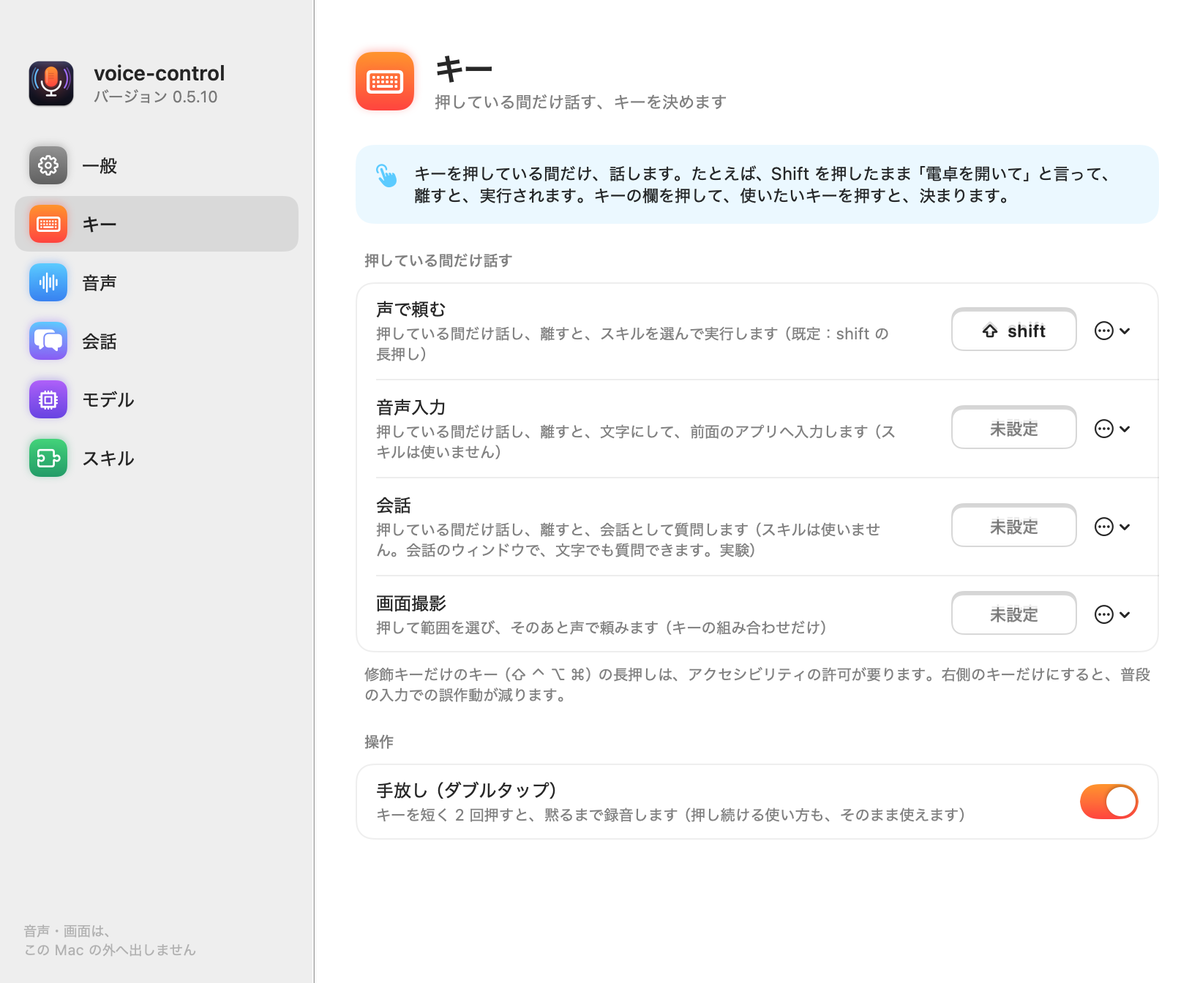
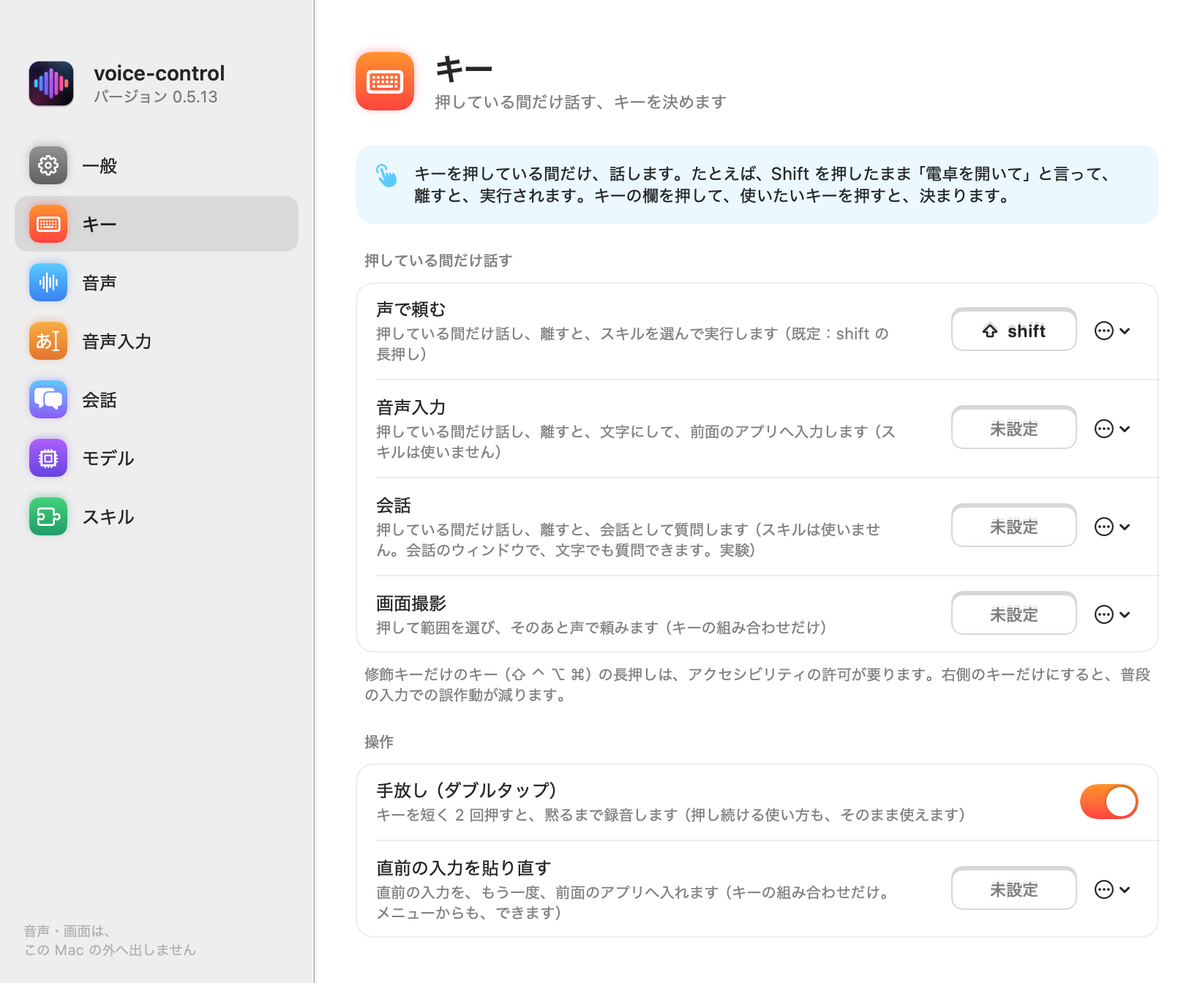
文書：README・製品ページに、v0.5.11 以降の更新を反映（音声入力のページ・会話の順番待ち・止める・履歴の例外ほか）、画像の撮り直し

diff --git a/site/index.html b/site/index.html
@@ -152,9 +152,11 @@
           <li class="rule spotlight reveal"><svg aria-hidden="true"><use href="#i-hand"/></svg><div><h3>キーで話す、または文字で聞く</h3><p>会話のキー（設定 &gt; キー）を押している間だけ話すか、メニューバーの「会話を開く」で、ウィンドウに文字で入れます。読み上げは、Esc やボタンで止められます。</p></div></li>
           <li class="rule spotlight reveal" style="--d:60ms"><svg aria-hidden="true"><use href="#i-puzzle"/></svg><div><h3>道具を、段階で開ける</h3><p><b>なし</b>（初期設定）・<b>Web</b>（検索・ページの取得）・<b>＋読む</b>（作業フォルダのファイル）・<b>すべて</b>（書き込み・コマンド）。Apple のモデルの「すべて」は、<strong>上書きと、読むだけでないコマンドを、毎回確認</strong>します。</p></div></li>
           <li class="rule spotlight reveal" style="--d:120ms"><svg aria-hidden="true"><use href="#i-eye"/></svg><div><h3>画面を撮って、見せる</h3><p>「画面を撮る」で範囲を選ぶと、画像について聞けます。Apple のモデルは、<strong>Mac の中で</strong>読みます。外のエージェントへは、<strong>送るたびに、画像と送り先を見せて、確認</strong>します。</p></div></li>
+          <li class="rule spotlight reveal" style="--d:150ms"><svg aria-hidden="true"><use href="#i-hand"/></svg><div><h3>考えている間に、続けて質問できる</h3><p>文字でも声でも、続けて送ると<strong>順番待ち</strong>に入り、いまの答えが終わってから送られます（待っている文字は、まとめて 1 回の質問に）。各件に<b>今すぐ送る</b>（いまの質問を止めて、先に）と<b>取り下げ</b>があり、入力欄が空のとき、送信ボタンは<b>停止</b>になります。</p></div></li>
+          <li class="rule spotlight reveal" style="--d:165ms"><svg aria-hidden="true"><use href="#i-eye"/></svg><div><h3>止める・戻る・複数行 <small>次の版</small></h3><p>会話のキーで「止めて」「ストップ」「stop」と話すと、読み上げと考えている質問を止めます（発話の全体が一致したときだけ。「音楽を止めて」は、普通の質問です）。上へ戻って読んでいるときは「最新へ」のボタン。入力欄は、⇧Return で改行できます。</p></div></li>
           <li class="rule spotlight reveal" style="--d:180ms"><svg aria-hidden="true"><use href="#i-chip"/></svg><div><h3>答える側を選べる</h3><p>初期設定は、Mac の中の Apple のモデル。<code>claude</code>・<code>codex</code>・<code>grok</code>・<code>agy</code>・<code>opencode</code>・<code>pi</code> のうち、<strong>Mac に入っているものだけ</strong>が選べます。選んだものがなくなったら、Apple のモデルで答えます。外のエージェントを選ぶと、<strong>発話がその提供元へ送られます</strong>（ヘッダーに印が出ます）。</p></div></li>
         </ul>
-        <p class="note-small reveal">会話の記録は、メモリだけです（ファイルにもログにも残しません）。「会話を終わって」・「新しい会話」・5 分間話さない・アプリの終了で消えます。</p>
+        <p class="note-small reveal">会話の記録は、メモリだけです（ファイルにもログにも残しません）。「会話を終わって」・「新しい会話」・5 分間話さない・アプリの終了で消えます。答えが少しずつ届くエージェント（opencode など）では、届いた文から表示と読み上げを始めます（次の版。エージェントによって、効き方が違います）。</p>
       </div>
     </div>
   </div>
@@ -186,8 +188,8 @@
       </article>
       <article class="card spotlight b-third reveal">
         <h3>声で文字を入力</h3>
-        <p>話した言葉を、いま使っているアプリにそのまま入力します。「えーと」などのつなぎ言葉は、辞書を使って消せます（初期設定はオフ）。</p>
-        <code class="mini">設定 &gt; キー &gt; 音声入力</code>
+        <p>話した言葉を、いま使っているアプリにそのまま入力します。入力のあとに送るキー（Enter・⌘Enter など）は、<strong>複数登録して切り替え</strong>られ、直前の入力の貼り直し、「えーと」の削除、英語の前の空白にも対応します。入力の<strong>履歴</strong>は、オンにしたときだけ残ります（初期設定はオフ）。</p>
+        <code class="mini">設定 &gt; キー ／ 設定 &gt; 音声入力</code>
       </article>
       <article class="card spotlight b-third reveal" style="--d:80ms">
         <h3>続けて頼む</h3>
@@ -267,8 +269,9 @@
     </header>
     <div class="gallery">
       <figure class="reveal"><div class="frame"><img src="assets/img/settings-general.png" width="1200" height="984" alt="設定の「一般」。準備状況、許可、ログイン時に起動、コマンド vc、診断" loading="lazy"></div><figcaption><b>一般</b>　準備状況（許可・モデル）、起動、コマンド vc、診断</figcaption></figure>
-      <figure class="reveal" style="--d:60ms"><div class="frame"><img src="assets/img/settings-keys.png" width="1200" height="984" alt="設定の「キー」。声で頼む、音声入力、会話、画面撮影のキー" loading="lazy"></div><figcaption><b>キー</b>　声で頼む・音声入力・会話・画面撮影。右側のキーだけにもできます</figcaption></figure>
-      <figure class="reveal" style="--d:120ms"><div class="frame"><img src="assets/img/settings-voice.png" width="1200" height="984" alt="設定の「音声」。録音中の音、文字の表示、読み上げ、つなぎ言葉" loading="lazy"></div><figcaption><b>音声</b>　録音中の音・文字の表示・読み上げと声・つなぎ言葉</figcaption></figure>
+      <figure class="reveal" style="--d:60ms"><div class="frame"><img src="assets/img/settings-keys.png" width="1200" height="984" alt="設定の「キー」。声で頼む、音声入力、会話、画面撮影、直前の入力の貼り直しのキー" loading="lazy"></div><figcaption><b>キー</b>　声で頼む・音声入力・会話・画面撮影・直前の入力の貼り直し。右側のキーだけにもできます</figcaption></figure>
+      <figure class="reveal" style="--d:120ms"><div class="frame"><img src="assets/img/settings-voice.png" width="1200" height="984" alt="設定の「音声」。認識の言語、録音中の音、文字の表示、読み上げ" loading="lazy"></div><figcaption><b>音声</b>　認識の言語（日本語・English・自動）・録音中の音・文字の表示・読み上げと声</figcaption></figure>
+      <figure class="reveal"><div class="frame"><img src="assets/img/settings-dictation.png" width="1200" height="984" alt="設定の「音声入力」。入力のあとに送るキー、入力の整え方、履歴" loading="lazy"></div><figcaption><b>音声入力</b>　入力のあとに送るキー（複数登録して切り替え）・つなぎ言葉・英語の空白・履歴（初期設定はオフ）</figcaption></figure>
       <figure class="reveal"><div class="frame"><img src="assets/img/settings-chat.png" width="1200" height="984" alt="設定の「会話」。エージェント、道具、作業フォルダ、会話の記録" loading="lazy"></div><figcaption><b>会話</b>　エージェント・道具の段階・作業フォルダ</figcaption></figure>
       <figure class="reveal" style="--d:60ms"><div class="frame"><img src="assets/img/settings-models.png" width="1200" height="984" alt="設定の「モデル」。エンジン、音声認識、モデルの取得" loading="lazy"></div><figcaption><b>モデル</b>　実行するモデル・音声認識・モデルの取得</figcaption></figure>
       <figure class="reveal" style="--d:120ms"><div class="frame"><img src="assets/img/settings-skills.png" width="1200" height="984" alt="設定の「スキル」。有効と無効の切り替え、インストール" loading="lazy"></div><figcaption><b>スキル</b>　有効・無効・インストール（一覧に、許可するコマンドと、外へ送るかが出ます）</figcaption></figure>
@@ -290,8 +293,9 @@
           <li class="rule spotlight reveal"><svg aria-hidden="true"><use href="#i-shield"/></svg><div><h3>許可したコマンドだけ実行する</h3><p>スキルに書いた <code>allowed-commands</code> と先頭が一致するコマンドだけを実行します。一致しなければ実行しません。</p></div></li>
           <li class="rule spotlight reveal" style="--d:60ms"><svg aria-hidden="true"><use href="#i-term"/></svg><div><h3>シェルは使わない</h3><p>パイプ（<code>|</code>）、リダイレクト（<code>&gt;</code>）、<code>&amp;&amp;</code> は使えません。<code>sudo</code> やシェルの起動は、許可リストに書くこともできません。</p></div></li>
           <li class="rule spotlight reveal" style="--d:120ms"><svg aria-hidden="true"><use href="#i-hand"/></svg><div><h3>危ない操作は確認する</h3><p>削除、送信、購入など取り消しにくい依頼だと判断したときや、自信がないときは、実行の前に確認します。スキルに <code>confirm: true</code> と書けば、そのスキルは必ず確認します。</p></div></li>
-          <li class="rule spotlight reveal" style="--d:180ms"><svg aria-hidden="true"><use href="#i-lock"/></svg><div><h3>話した内容を外に出さない</h3><p>音声認識、スキルの選択、初期設定の AI モデルは、すべて Mac の中で動きます。撮った画面の画像も、Mac の中のモデルだけに渡し、自分だけが読める場所に 1 枚だけ置いて、3 分で使えなくなります。例外は、自分で入れたときだけ使える 3 つのスキルと、<strong>自分で選んだ会話のエージェント</strong>です（下の「注意点」を見てください）。</p></div></li>
+          <li class="rule spotlight reveal" style="--d:180ms"><svg aria-hidden="true"><use href="#i-lock"/></svg><div><h3>話した内容を外に出さない</h3><p>音声認識、スキルの選択、初期設定の AI モデルは、すべて Mac の中で動きます。撮った画面の画像も、Mac の中のモデルだけに渡し、自分だけが読める場所に 1 枚だけ置いて、3 分で使えなくなります。例外は、自分で入れたときだけ使える 3 つのスキルと、<strong>自分で選んだ会話のエージェント</strong>です（下の「注意点」を見てください）。声で入力した文字の<strong>履歴</strong>は、設定でオンにしたときだけ、入力した文字と時刻を、自分だけが読めるファイルに、決めた日数だけ残します（初期設定はオフ。外へは送りません）。</p></div></li>
           <li class="rule spotlight reveal" style="--d:210ms"><svg aria-hidden="true"><use href="#i-hand"/></svg><div><h3>会話の道具も、コードが歯止めをかける</h3><p>Apple のモデルの道具は、作業フォルダの外・内部の URL へ行けず、シェル・インタプリタ・通信のコマンドは実行できません。上書きと、読むだけでないコマンドは、毎回、確認します。小さなモデルが、道具を呼ばずに作り話をしたときは、答えを出さずに、失敗として知らせます。</p></div></li>
+          <li class="rule spotlight reveal" style="--d:225ms"><svg aria-hidden="true"><use href="#i-term"/></svg><div><h3>止めたら、起こした子プロセスも止める <small>次の版</small></h3><p>コマンドの取りやめ・時間切れ、エージェントとの接続を閉じるとき、エージェントが起こした子プロセスも止めます（自分のセッションへ外れたものも。関係のないプロセスは、止めません）。</p></div></li>
           <li class="rule spotlight reveal" style="--d:240ms"><svg aria-hidden="true"><use href="#i-eye"/></svg><div><h3>聞こえた内容の「命令」には従わない</h3><p>話した内容、画面の文字、AI の出力に命令が書かれていても、実行の指示としては扱いません。</p></div></li>
         </ul>
         <div class="split reveal">
@@ -404,7 +408,7 @@ $ osascript ~/.voice-control/skills/spotify/spotify.applescript volume 50</pre>
       <li class="note spotlight reveal" style="--d:60ms"><h3>外へ送られるもの</h3><p>会話で、外のエージェント（claude・codex など）を選ぶと、<strong>発話が、その提供元へ送られます</strong>（画像は、送るたびに確認します。道具の「すべて」は、書き込み・コマンドも、そのエージェントの判断でできるので、聞き間違いや、ページの命令で、意図しない操作が起きえます）。スキルでは、<code>ask-agent</code> は調べる内容を、選んだ AI エージェントの提供元に送ります。<code>web-search</code> は検索ワードを、選んだサイトに送ります。<code>ask-agent-image</code> は<strong>撮った画面の画像</strong>を、選んだエージェント（codex・claude・agy・grok・opencode・pi）に送るので、<strong>実行のたびに確認</strong>します。どれも、自分で入れたときだけ使えます。インストールのとき、注意が表示されます。</p></li>
       <li class="note spotlight reveal" style="--d:60ms"><h3>署名は ad-hoc です</h3><p>Apple の Developer ID による署名と公証はありません。ブラウザで取得して Gatekeeper に止められたときは、<code>xattr -dr com.apple.quarantine /Applications/VoiceControl.app</code> を実行してください。</p></li>
       <li class="note spotlight reveal"><h3>音声認識も間違えます</h3><p>専門用語、数字、否定の言い方は、間違えやすくなります。実行する前に、聞こえた内容が画面に表示されます。</p></li>
-      <li class="note spotlight reveal" style="--d:60ms"><h3>確認が終わっていない部分があります</h3><p>マイクを長く使った場合、ウィンドウの実際の動き（Space の移動など）、会話の読み上げ・画像の確認パネルなど、実際のアプリ・声での動作は、まだ確認が終わっていません。確認した範囲としていない範囲は、<a href="https://github.com/takemo101/voice-control/blob/main/docs/verification.md" rel="noopener">検証記録</a>にそのまま書いてあります。</p></li>
+      <li class="note spotlight reveal" style="--d:60ms"><h3>確認が終わっていない部分があります</h3><p>マイクを長く使った場合、ウィンドウの実際の動き（Space の移動など）、会話の読み上げ・画像の確認パネル、続けて話したときの順番待ち、声の「止めて」の認識、入力欄の直前の文字の読み取り（英語の空白）など、実際のアプリ・声での動作は、まだ確認が終わっていません。確認した範囲としていない範囲は、<a href="https://github.com/takemo101/voice-control/blob/main/docs/verification.md" rel="noopener">検証記録</a>にそのまま書いてあります。</p></li>
     </ul>
   </div>
 </section>
@@ -425,12 +429,13 @@ allowed-commands:
 Open the app the user names with: open -a "&lt;exact app name&gt;". Reply: done: &lt;one short sentence&gt;</pre><p><code>allowed-commands</code> に書いたコマンドだけが実行できます。詳しくは、<a href="https://github.com/takemo101/voice-control/blob/main/docs/skills.md" rel="noopener">docs/skills.md</a> を見てください。</p></div></details>
       <details class="reveal"><summary>Apple Intelligence が使えない Mac ではどうなりますか？</summary><div class="body"><p>Mac 上で動く Ollama や LM Studio などのモデルに切り替えられます（設定 &gt; モデル &gt; エンジン）。通信先は <code>127.0.0.1</code> に固定されていて、クラウドのモデルは指定できません。</p></div></details>
       <details class="reveal"><summary>会話の記録は残りますか？</summary><div class="body"><p>メモリだけです。ファイルにもログにも残しません。「会話を終わって」と言う、ウィンドウ右上の「…」>「新しい会話を始める」、5 分間話さない、アプリを終える、のどれかで消えます。長くなったときは、古いやり取りを要約して続けます。</p></div></details>
+      <details class="reveal"><summary>会話で、考えている間に、続けて質問できますか？</summary><div class="body"><p>できます。文字でも、会話のキーの声でも、順番待ちに入り、いまの答えが終わってから送られます。待っている文字は、まとめて 1 回の質問になります（声は、1 件ずつ）。「今すぐ送る」は、いまの質問を止めて、その 1 件を先に始めます。いま答えている途中に、差し込む機能（Zed の Steer のようなもの）は、ありません。</p></div></details>
       <details class="reveal"><summary>claude や codex が、選択肢に出ません</summary><div class="body"><p>設定 &gt; 会話 の選択肢には、<strong>この Mac に入っているエージェントだけ</strong>が出ます。入れていれば出ます（<code>PATH</code> と、<code>~/.local/bin</code>・<code>~/.bun/bin</code>・<code>/opt/homebrew/bin</code> などを探します）。選んだあとで、アンインストールしたら、Apple のモデルで答えます（設定は変わりません）。</p></div></details>
-      <details class="reveal"><summary>話した内容は記録されますか？</summary><div class="body"><p>話した内容の文字、画面の内容、入力した文字は、ファイルにもログにも残しません。表示するのは、画面の上のパネルとターミナルだけです。</p></div></details>
-      <details class="reveal"><summary>「えーと」などを消すには、どうしますか？</summary><div class="body"><p>設定の「音声」で、「つなぎ言葉を消す」をオンにします。消す言葉は、同じ画面の辞書で足し引きできます。声で文字を入力するときだけ働きます（声で頼む内容には使いません）。</p></div></details>
+      <details class="reveal"><summary>話した内容は記録されますか？</summary><div class="body"><p>話した内容の文字、画面の内容、入力した文字は、ファイルにもログにも残しません。表示するのは、画面の上のパネルとターミナルだけです。<strong>例外は、設定 &gt; 音声入力 の「履歴」をオンにしたとき</strong>だけです（初期設定はオフ）。入力した文字と時刻だけを、自分だけが読めるファイル（<code>~/.voice-control/history.jsonl</code>）に、決めた日数（初期設定は 7 日）だけ残します。アプリの名前・画面・音声は、残しません。探す・1 件の削除・すべて消すができます。</p></div></details>
+      <details class="reveal"><summary>「えーと」などを消すには、どうしますか？</summary><div class="body"><p>設定の「音声入力」で、「つなぎ言葉を消す」をオンにします。消す言葉は、同じ画面の辞書で足し引きできます。声で文字を入力するときだけ働きます（声で頼む内容には使いません）。</p></div></details>
       <details class="reveal"><summary>撮った画面は、どこに保存されますか？</summary><div class="body"><p><code>~/.voice-control/shot</code> に、1 枚だけ置きます（自分だけが読めます）。3 分で使えなくなり、アプリを終えると消えます。新しく撮ると、置き換わります。パネルの「パスをコピー」「Finder」を押したときだけ、<code>~/Pictures/voice-control</code> に保存します。画像は、Mac の中の AI モデル（Apple のモデル、または画像に対応した Ollama のモデル）にだけ渡します。</p></div></details>
       <details class="reveal"><summary>画像の文字だけが欲しいときは？</summary><div class="body"><p>撮ったあとに出るパネルの<strong>「文字起こし」</strong>を押します。macOS の文字認識で読み取って、パネルの下に、そのまま出します（選んでコピーできます）。AI を通さないので、写し間違いがありません。最初の 1 回だけ、システムの準備で 30 秒ほどかかります。</p></div></details>
-      <details class="reveal"><summary>途中でやめたいときは？</summary><div class="body"><p><span class="kbd">Esc</span> を押すと、録音、認識、実行中のコマンドを取り消せます。依頼を順番に分けて実行する機能は、設定の「モデル」で止められます。アプリ自体は、<code>just uninstall</code>（またはアプリをゴミ箱へ）で削除できます。</p></div></details>
+      <details class="reveal"><summary>途中でやめたいときは？</summary><div class="body"><p><span class="kbd">Esc</span> を押すと、録音、認識、実行中のコマンドを取り消せます。会話では、考えている間に送信ボタンが<strong>停止</strong>になり、押すと、いまの質問を止めて、順番待ちも送りません。会話のキーで「止めて」と話しても止まります（次の版）。依頼を順番に分けて実行する機能は、設定の「モデル」で止められます。アプリ自体は、<code>just uninstall</code>（またはアプリをゴミ箱へ）で削除できます。</p></div></details>
     </div>
   </div>
 </section>

diff --git a/site/assets/styles.css b/site/assets/styles.css
@@ -310,6 +310,8 @@ details .body .cmd { margin-top: var(--space-3); max-width: none; }
 .chat-grid figcaption { margin: var(--space-3) auto 0; max-width: 26rem; font-size: var(--text-xs); color: var(--color-ink-3); line-height: 1.7; }
 .gallery { display: grid; gap: var(--space-6); grid-template-columns: minmax(0, 1fr); }
 @media (min-width: 40rem) { .gallery { grid-template-columns: repeat(2, minmax(0, 1fr)); } }
+.rule h3 small { margin-left: .5em; font-size: var(--text-xs); font-weight: 500; color: var(--color-ink-3); }   /* 「次の版」の印 */
 .gallery figure { margin: 0; }
+@media (min-width: 40rem) { .gallery figure:last-child:nth-child(odd) { grid-column: 1 / -1; justify-self: center; width: calc(50% - var(--space-3)); } }   /* 最後の 1 枚が余ったとき：中央に置く */
 .gallery figcaption { margin-top: var(--space-3); font-size: var(--text-xs); color: var(--color-ink-3); line-height: 1.7; }
 .gallery figcaption b { color: var(--color-ink-2); }

diff --git a/README.en.md b/README.en.md
@@ -14,16 +14,35 @@
 
 Audio and screen contents never leave your Mac, except where you explicitly choose an external agent (the settings window says so).
 
-**Dictation extras (experimental)**: register up to four keys to press after typing (Enter, ⌘Enter, …) and switch between them and “don't send” with a shortcut, the menu bar, or Settings > Voice; paste the last input again or copy a recent one (the last five are kept in memory only); an opt-in history (Settings > History, off by default; text and time only, in a file only you can read, auto-deleted after 7 days by default); speech language “Auto” (with a downloaded model) and a space added before English text typed right after a word.
+## Chat
+
+- **Queue while it thinks** (like Zed and Codync): if you ask again while an answer is being worked on — by typing or by voice — the new question joins a queue (dashed bubbles in the conversation) and is sent when the current one finishes. Waiting typed messages are merged into one question; spoken ones go one at a time. Each queued message has **Send now** (stops the current question and sends that one first) and **Remove**. When the input is empty the send button becomes **Stop**: it stops the current question and drops the queue (the dropped messages stay in the log as “not sent”). Not included: injecting a message into the answer that is already running (Zed's Steer).
+- **Spoken “stop”** (chat key only; next release): saying only “stop”, “cancel”, “never mind”, “wait” (or the Japanese equivalents) stops reading aloud and the current question and drops the queue. It is a whole-utterance word match (no model): a longer sentence such as “stop the music” is an ordinary question. The words are fixed for now (not configurable).
+- **Answers can start sooner** (agents that stream over ACP; next release): the text appears while the agent is still answering, and read-aloud starts sentence by sentence. It depends on the agent — measured: opencode streams, agy sends almost everything at once (little gain). Apple's model and non-streaming agents behave as before.
+- **“Latest” button** when you scroll up in the conversation, and a **multi-line input** (Return sends, ⇧Return inserts a line break; up to 6 lines) — next release.
+- Chat history is kept in memory only.
+
+## Dictation extras (experimental)
+
+- **Keys to press after typing** (Settings > Dictation): add as many as you like with “Add a key” (Enter, ⌘Enter, …). The choices are “Don't send” plus those keys; switch with a shortcut, the menu bar, or the “Current key” setting (no restart).
+- **Paste the last input again** (shortcut in Settings > Keys, or the menu bar) and **copy a recent input** (the last five are kept in memory only).
+- **History** (Settings > Dictation, **off by default**): when on, only the typed text and the time are saved, in `~/.voice-control/history.jsonl` (readable only by you), for 7 days by default. Search, copy, delete one, or delete all. Nothing is sent anywhere.
+- **Text cleanup**: remove filler words (um, uh…), and add a space before English text typed right after a word (never for Japanese).
+
+## Settings pages
+
+General · Keys · Voice (language, recording, read-aloud) · Dictation · Chat · Models · Skills.
 
 ## Languages
 
 Two settings, both defaulting to Japanese:
 
 - **Display language** (Settings > General > Language): the UI text (settings window, dialogs, menu, on-screen panel, screenshot selection, chat and Markdown windows, the `vc` command help) is shown in Japanese or English. Skill names/descriptions and agent answers are not translated. Permission prompts (microphone etc.) follow your Mac's language.
-- **Speech recognition language** (Settings > Voice > Language): the language you speak. It affects recognition (Apple SpeechTranscriber `en-US`, or the downloaded Whisper model), live captions, the spoken voice, the spoken "yes" for confirmations, and the language the models are told to answer in.
+- **Speech recognition language** (Settings > Voice > Language: Japanese / English / Auto): the language you speak. **Auto** detects the language from the audio, but only with a downloaded Whisper model; Apple's recognizer must be told a language, so Auto means the Mac's language there. It affects recognition (Apple SpeechTranscriber `en-US`, or the downloaded Whisper model), live captions, the spoken voice, the spoken "yes" for confirmations, and the language the models are told to answer in.
 
-The skill selection was built and measured in Japanese. With the same sentences translated to English it worked (action vs. chat: 19/20 and 20/20 on 40 sentences), but confidence is lower, so you may see more confirmations. Japanese-specific word rules (for example "end the chat" phrases in chat) do not work in English.
+The skill selection was built and measured in Japanese. With the same sentences translated to English it worked (action vs. chat: 19/20 and 20/20 on 40 sentences), but confidence is lower, so you may see more confirmations. The spoken “stop” words work in both Japanese and English; the “end the chat” phrases are Japanese only.
+
+**Languages can be added** (for developers; next release): per-language data (names, spoken “yes”, filler words, “stop” words…) lives in one place, translation tables are per language, and untranslated strings fall back to English. See [docs/development.md](docs/development.md) (Japanese). Adding a language covers the UI, recognition and read-aloud only; the skill selection accuracy has been measured only in Japanese and English.
 
 ## Getting started
 
@@ -33,7 +52,7 @@ The skill selection was built and measured in Japanese. With the same sentences 
 
 ## Safety in brief
 
-The language model can only run commands that a skill's `allowed-commands` permits; the check is done in code, not in the prompt. Speech, screen text, and model output are treated as untrusted data. Destructive operations ask for confirmation. See [SPEC.md](SPEC.md) (Japanese) for the requirements.
+The language model can only run commands that a skill's `allowed-commands` permits; the check is done in code, not in the prompt. Speech, screen text, and model output are treated as untrusted data. Destructive operations ask for confirmation. Speech and typed text are not written to files or logs, **except** the opt-in dictation history above and a screenshot you take yourself (kept for 3 minutes in a private location). When a command or an agent connection is stopped, the child processes it started are stopped too (next release). See [SPEC.md](SPEC.md) (Japanese) for the requirements.
 
 ## License
 

diff --git a/docs/verification.md b/docs/verification.md
@@ -1874,6 +1874,14 @@ SPEC §6 の「一部確認・未確認」の債務（58 件中 35 件。2026-11
 - **確認した**：既存のすべてのテスト（言語の登録・表・フォールバックのテストを足した）。**実際に、3 つ目の言語を足して試した**（`/tmp` の作業用のコピー。コミットしていない）：`AppLanguage` に `fr` を足すと、`LanguageProfile` の `switch`、次に `L10nTables` の `switch` が、コンパイルで落ちて、足す場所を教えた／`--new-language fr French` が、1,297 件のひな形を作った／6 件だけ訳して、設定ウィンドウを、`uiLanguage: fr` で描くと、訳した項目はフランス語（Général・Touches・Voix）、残りは英語で出て、言語の選択肢に「Français」が出た／全テストが通った（**ただし、既存のテストが、`fr` を「書き間違いの例」に使っていて、落ちた：「zz」に直した**）。
 - **限界・未確認**：足せるのは、画面・音声認識・読み上げの言語まで。**声で頼む機能の精度（Tiny-Jev の選択肢・「操作の依頼か」の判定）は、日本語・英語しか測っていない**。右から左へ書く言語・複数形の規則は、扱わない（表は、文と文の 1 対 1）。実際の第 3 言語の訳は、ない（足したのは、試すための仮のもの）。
 
+## README・製品ページの反映（2026-11-21。利用者の依頼：v0.5.11 以降の更新が、反映されていない）
+
+- **直したもの**：README.md・README.en.md・`site/index.html`。①設定ウィンドウの構成（新しい「音声入力」ページ。つなぎ言葉・履歴・送るキーの場所）②会話：順番待ち・止める・少しずつの表示と読み上げ・「最新へ」・複数行 ③言語（自動・足せる作り・「止めて」は両言語、会話を終わる言い方は日本語だけ）④安全：**履歴の例外**（記録しない、の例外が、スクリーンショットだけではなくなった：以前の記述は、事実と違っていた）・子プロセスも止める ⑤「いまの状況」の表に、新しい機能と、**未確認の範囲**。
+- **正確さの扱い**：main にあって、まだ、リリースされていない機能（止めて・少しずつ・最新へ・複数行・子プロセス・言語を足せる作り）には、「※次の版」と付けた（最新のリリースは 0.5.13）。
+- **画像**：設定の 7 ページ（新しい「音声入力」を含む）と、会話の順番待ちを、`scripts/site/render.sh` で、画面の外で描き直した（新しいアイコンが、サイドバーに出る）。`render.sh` は、リポジトリの `Resources/AppIcon.icns` を使う（以前は、`build/` の、古いアイコンを、使うことがあった）。
+- **確認した**：README の、ローカルのリンク・画像が、すべて存在する／`site/index.html` の、タグの釣り合い／ローカルで配信して、ブラウザで開き、ギャラリーが 7 枚（最後の 1 枚は中央）・会話の新しい項目が崩れずに出ることを確認（`127.0.0.1` だけ）。
+- **未確認**：製品ページの、スマホ幅での見え方（このページの画面幅は、1280 だけ見た）。動画（`demo-chat`）は、撮り直していない（順番待ち・最新へは、動画に出ない）。
+
 ## GitButler の作業ツリー（`gitbutler/workspace`）の実態（2026-11-21。利用者の質問：いまも、workspace は要るのか）
 
 - **きっかけ**：PR のマージ後の `but pull` で、`gitbutler/workspace` が、`main` より 19 commit 古いまま（PR #134 の時点）になっていた。`but pull` は「Up to date」と言うだけで、動かさなかった。
